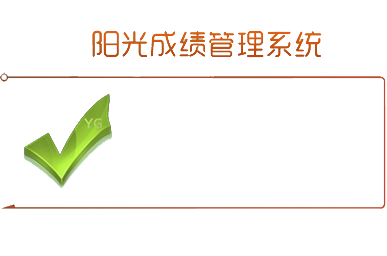
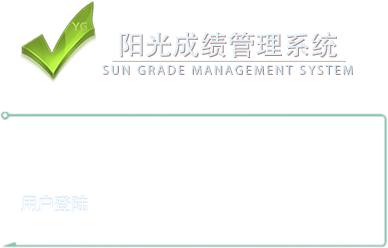
东

Changed region(s): [[0.0, 0.0, 0.9922, 0.3387], [0.0, 0.3105, 1.0, 0.9879], [0.0, 0.9597, 0.9922, 1.0]]

diff --git a/application/modules/login/tpl/index.htm b/application/modules/login/tpl/index.htm
@@ -26,16 +26,16 @@
         #login_announcement {
             margin-top: 40%;
             width:310px;
-            height:255px;
+            height:355px;
             background:url(/ui/img/login_index/announcement.png) no-repeat;
             text-align: left;
             overflow: hidden;
         }
         #login_announcement_container {
-            margin-top:30px;
-            margin-left: 25px;
+            margin-top:60px;
+            margin-left: 45px;
             width:235px;
-            height:160px;
+            height:260px;
             overflow:hidden;
         }
         #login_announcement_title {
@@ -46,7 +46,7 @@
             font-size:12px;
             line-height: 10px;;
             margin-top: 10px;
-            height:132px;
+            height:190px;
             overflow: auto;
         }
         #login_announcement_content p {
@@ -57,15 +57,17 @@
         
         /*left end*/
         #login_right {
-            width:440px; 
+            width:478px; 
             height:100%;
+			border: 3px solid #7bd0bc;
+			
             background-image:url(/ui/img/login_index/right.jpg);
             background-size:cover; 
-            margin-right:15%;
+            margin-right:10%;
             float:right;
         }
         #login_form_container {
-            margin:125px auto;
+            margin:150px auto;
             background:url(/ui/img/login_index/login_form.png) no-repeat;
             height:400px;
             width:400px;
@@ -99,6 +101,25 @@
         #cancel {
             margin-left: 30px;
         }
+		.user {
+			height:18px; 
+			width:130px; 
+			border: 1px solid; 
+			border-color: #5b9b8e;
+		}
+		.up{
+			color:#FFFFFF;
+			font-size:12px;
+			margin-top:140px;
+			margin-left:130px;
+		}
+		.button{
+			margin-left:130px; 
+			margin-top:10px; 
+			height:22px; 
+			color:#c04103; 
+			font-size:14px;
+		}
     </style>
     <script>
         window.onload = function(){
@@ -112,11 +133,10 @@
         <div id="login_left">
             <div id="login_announcement">
                 <div id="login_announcement_container">
-                    <strong id="login_announcement_title">最新公告</strong>
                     <div id="login_announcement_content">
-                        <p>我们一直很重视用户账号的安全问题，"账号安全"是我们最为关注的工作之一。</p>
-                        <p>我们希望用户可以快捷方便，又安全无虑地登录网站，并与您的朋友通网站交流联系。</p>
-                        <p>所以，保证用户账号安全可靠，是我们的重要目标。</p>
+                        <p>我们希望用户可以快捷方便，又安全无虑地登录网站，并与您的朋友通网交流!!!呵呵~~~</p>
+                        <p>我们希望用户可以快捷方便，又安全无虑地登录网站，并与您的朋友通网交流!!!</p>
+                        <p>我们希望用户可以快捷方便，又安全无虑地登录网站，并与您的朋友通网交流!!!哈哈~~~</p>
                     </div>
                 </div>
             </div>
@@ -124,20 +144,13 @@
         <!-- #login_left end -->
         <div id="login_right">
             <form id="login_form_container">
-                <dl id="form_content">
-                    <dd>
-                        <label for="username">用户名：</label>
-                        <input type="text" name="account" id="account" required />
-                    </dd>
-                    <dd>
-                        <label for="password"><span>密</span>码：</label>
-                        <input type="password" name="password" id="password" required />
-                    </dd>
-                    <dd>
-                        <input type="button" class="login_form_button login" value="登  录" />
-                        <input type="button" class="login_form_button" id="cancel" value="取  消" />
-                    </dd>
-                </dl>
+                <div class="up">
+				用户名： <input name="username" type="text" class="user"><br><br>
+
+				密&nbsp;&nbsp;码： <input name="psd" type="text" class="user"></div>
+				<div class="button">
+				<input type="image" src="/ui/img/login_index/login.jpg">
+                <input style="margin-left:28px;" type="image" src="/ui/img/login_index/qx.png" onClick="this.form.reset();return false;"></div>
             </form>
         </div>
         <!-- #login_right end -->
@@ -154,7 +167,7 @@ $(function(){
             if(data == 1) {
                 location.reload();  
            } else {
-                alert('密码错误！');
+                alert('密码错误?');
            }
            
         });
